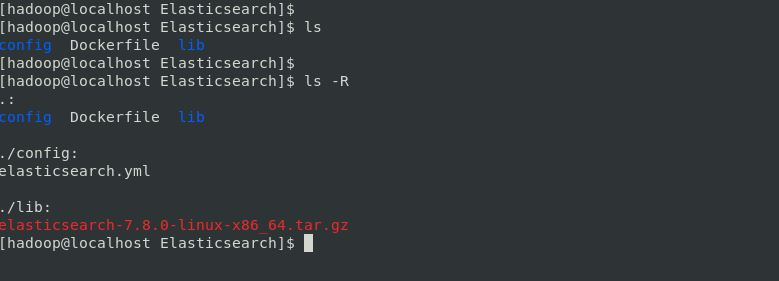
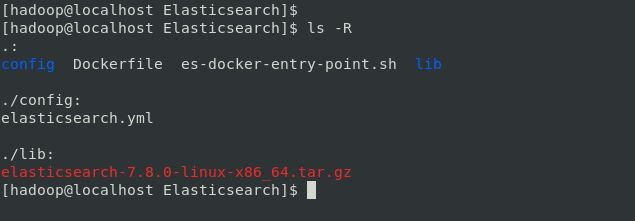
#2 docker-compose.yml file added for setting up single and multi node Elasticsearch Cluster with steps in README.md

diff --git a/Elasticsearch/README.md b/Elasticsearch/README.md
@@ -85,8 +85,10 @@ ENV ES_LOGS_PATH $ES_HOME/logs
 ENV ES_NETWORK_HOST 0.0.0.0
 ENV ES_HTTP_PORT 9200
 ENV ES_DISCOVERY_SEED_HOSTS "127.0.0.1, [::1]"
+ENV ES_BOOTSTRAP_MEMORY_LOCK false
 ENV ES_MASTER_NODES "node1"
 ENV PATH $ES_HOME/bin:$PATH
+ENV ES_JAVA_OPTS "-Xms512m -Xmx512m"
 
 USER elasticsearch
 ENTRYPOINT ["./es-docker-entry-point.sh"]
@@ -131,17 +133,15 @@ elasticsearch
 Before build the image, the directory structure should look like below:
 
 ```
-[hadoop@localhost Elasticsearch]$ 
-[hadoop@localhost Elasticsearch]$ ls -R
+$ ls -R
 .:
-config  Dockerfile  lib
+config  Dockerfile  es-docker-entry-point.sh  lib
 
 ./config:
 elasticsearch.yml
 
 ./lib:
 elasticsearch-7.8.0-linux-x86_64.tar.gz
-[hadoop@localhost Elasticsearch]$
 
 ```
 
@@ -176,3 +176,87 @@ Once the container is up and running, check whether the Elasticsearch is running
 
 <img src="Screenshots/ElasticsearchStatus.JPG">
 
+### Launching Elasticsearch Container using docker-compose
+
+The below is the command to launch the elasticsearch container:
+
+```
+docker-compose up -d
+```
+
+[Click Here](https://github.com/AshokKumarChoppadandi/dev-environments/blob/feature/elasticsearch-docker-setup/Elasticsearch/docker-compose.yml) to see the `docker-compose.yml` file.
+
+To get the status of the containers:
+
+```
+docker-compose ps
+```
+
+<img src="Screenshots/DockerCompose.JPG">
+
+To stop and remove the containers:
+
+```
+docker-compose down
+```
+
+### Launching Elasticsearch Container using docker-compose with env-file
+
+The below is the command to launch the elasticsearch container:
+
+```
+docker-compose -f docker-compose-env.yml --env-file env-file up -d
+```
+
+[Click Here](https://github.com/AshokKumarChoppadandi/dev-environments/blob/feature/elasticsearch-docker-setup/Elasticsearch/docker-compose-env.yml) to see the `docker-compose-env.yml` file.
+
+To get the status of the containers:
+
+```
+docker-compose -f docker-compose-env.yml --env-file env-file ps
+```
+
+<img src="Screenshots/DockerComposeEnv.JPG">
+
+To stop and remove the containers:
+
+```
+docker-compose -f docker-compose-env.yml --env-file env-file down
+```
+
+### Launching Elasticsearch Multi Node Cluster using docker-compose
+
+The below is the command to launch the elasticsearch container:
+
+```
+docker-compose -f docker-compose-multinode.yml up -d
+```
+
+[Click Here](https://github.com/AshokKumarChoppadandi/dev-environments/blob/feature/elasticsearch-docker-setup/Elasticsearch/docker-compose-multinode.yml) to see the `docker-compose-multinode.yml` file.
+
+To get the status of the containers:
+
+```
+docker-compose -f docker-compose-multinode.yml ps
+```
+
+<img src="Screenshots/DockerComposeMultinode.JPG">
+
+To stop and remove the containers:
+
+```
+docker-compose -f docker-compose-multinode.yml down
+```
+
+That's it, setup for Elasticsearch on docker is up and ready now.
+
+### ***Cheers & Happy Coding...!!!***
+
+
+### References
+
+1. https://www.elastic.co/downloads/elasticsearch
+2. https://www.elastic.co/guide/en/elasticsearch/reference/7.8/install-elasticsearch.html
+3. https://www.elastic.co/guide/en/elasticsearch/reference/7.8/targz.html
+4. https://www.elastic.co/guide/en/elasticsearch/reference/7.8/settings.html
+5. https://www.elastic.co/guide/en/elasticsearch/reference/7.8/docker.html
